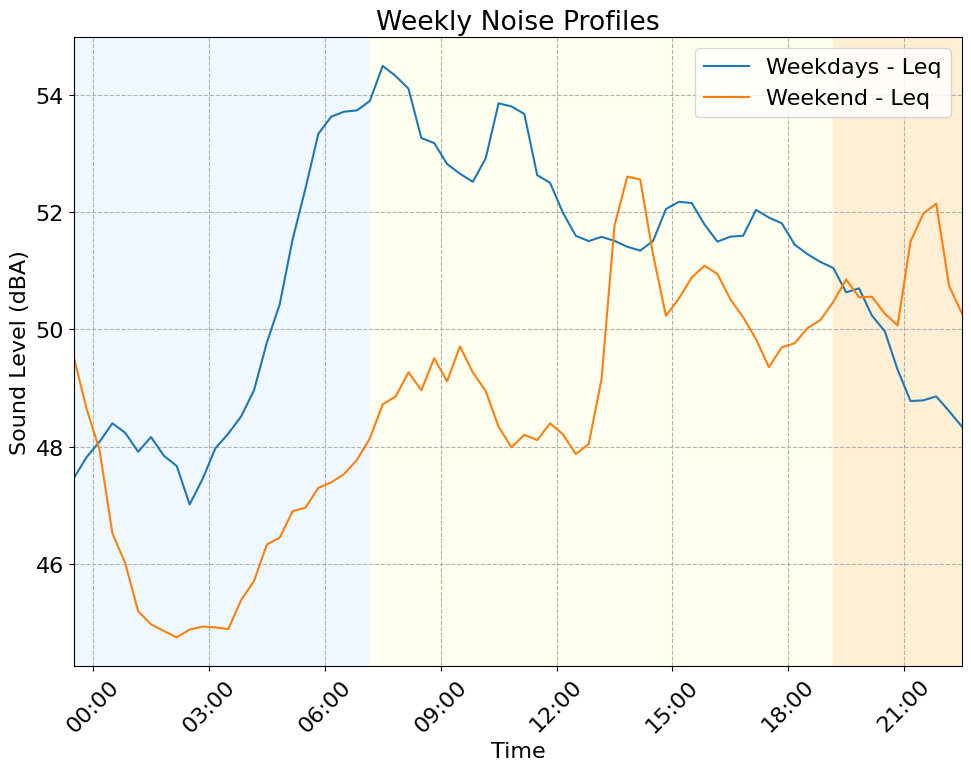
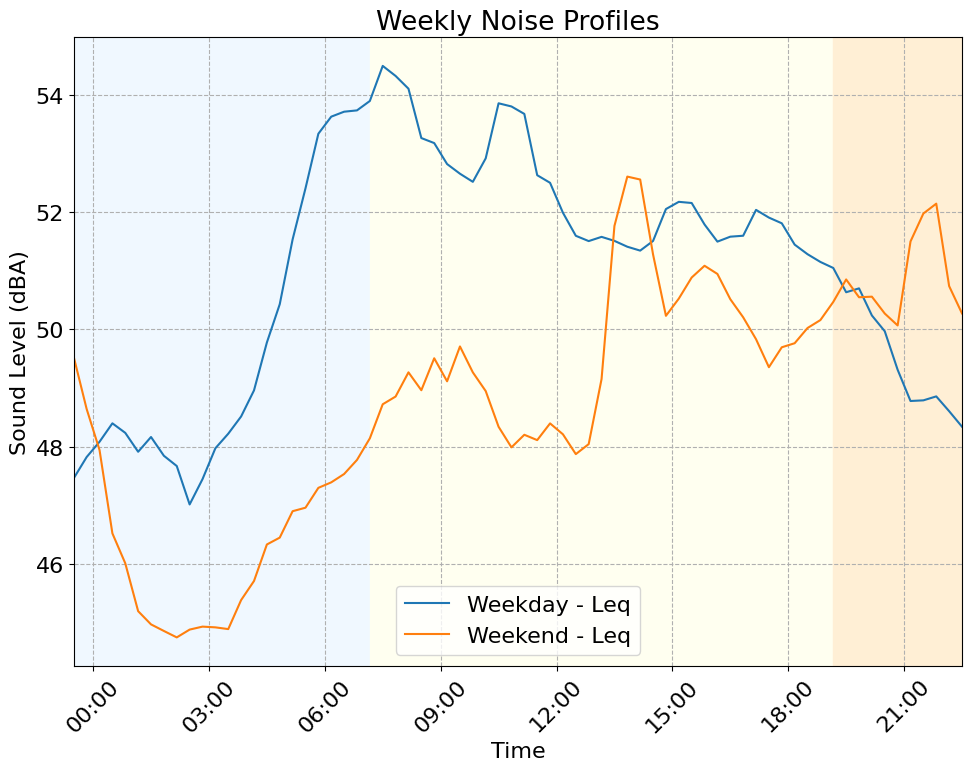
minor edits to readme

Changed region(s): [[0.7106, 0.0623, 0.9887, 0.1556], [0.4325, 0.7782, 0.587, 0.8405], [0.6179, 0.7782, 0.6488, 0.8405]]

diff --git a/README.md b/README.md
@@ -42,6 +42,8 @@ pip install git+https://github.com/valerianF/noisemonitor
 
 ## Quick Start
 
+**noisemonitor** is designed for flexibility and ease of use. All analysis functions accept an optional `column` parameter, allowing you to specify which data column to analyze (e.g., to work with datasets containing multiple sound level measurements or frequency bands). Most functions return results as pandas DataFrames for easy manipulation.
+
 ```python
 import noisemonitor as nm
 
@@ -56,10 +58,9 @@ df_1m = nm.load(
 
 # Compute Lden
 lden = nm.summary.lden(df_1m)
-print(lden)
+lden.head()
 ```
 
-**Output:**
 | lden | lday  | levening | lnight |
 |------|-------|----------|--------|
 | 56.1 | 51.75 | 50.08    | 49.23  |
@@ -89,7 +90,7 @@ weekend_profile = nm.profile.periodic(
 # Visualize
 nm.display.compare(
     [weekday_profile, weekend_profile],
-    ['Weekdays', 'Weekend'],
+    ['Weekday', 'Weekend'],
     'Leq',
     fill_background=True,
     title='Weekly Noise Profiles'
@@ -98,7 +99,13 @@ nm.display.compare(
 
 ![Weekly Noise Profiles](docs/images/weekly_noise_profiles.png)
 
-**noisemonitor** is designed for flexibility and ease of use. All analysis functions accept a `column` parameter, allowing you to specify which data column to analyze (e.g., to work with datasets containing multiple sound level measurements or frequency bands). Most functions return results as pandas DataFrames for easy manipulation.
+```python
+# Computa HARMONICA indexes
+harmonica = nm.summary.harmonica_periodic(df_1s) # requifres 1s resolution data
+nm.display.harmonica(harmonica) # Visualize
+```
+
+![HARMONICA Indexes](docs/images/harmonica_index_plot.png)
 
 ## Core Modules
 
@@ -117,7 +124,7 @@ df_filtered = nm.filter.extreme_values(df, min_value=30, max_value=100)
 ```
 
 ### `nm.summary`
-Compute discrete indicators: Leq, Lden, HARMONICA, frequency analysis, histograms.
+Compute discrete sound level indicators: Leq, Lden, HARMONICA, frequency analysis, histograms.
 
 ```python
 overall_lden = nm.summary.lden(df)
@@ -126,7 +133,7 @@ harmonica = nm.summary.harmonica_periodic(df)
 ```
 
 ### `nm.profile`
-Compute time-varying profiles: time series, daily/weekly patterns, noise events.
+Compute time-varying sound level profiles: time series, daily/weekly patterns, number of noise events, etc.
 
 ```python
 time_series = nm.profile.series(df, win=3600, step=1200)
